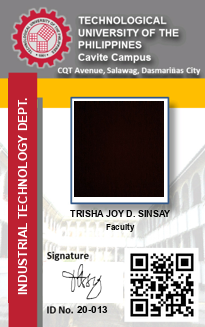
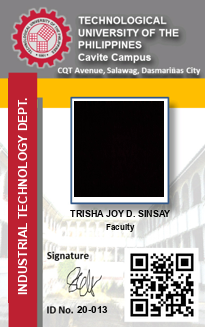
commit

Changed region(s): [[0.2049, 0.7951, 0.6146, 0.948]]

diff --git a/student_front.py b/student_front.py
@@ -166,8 +166,6 @@ class Win:
             self.E1.icursor(6)  # Set the cursor position after "TUPC- "
             self.E1.config(fg="black")
             self.E1.bind("<Key>", self.on_key_press)  # Bind the Key event
-            # Open the on-screen keyboard executable
-            subprocess.Popen(['osk.exe'])
 
     def on_key_press(self, event):
         # Allow only numbers and '-' character
@@ -200,10 +198,6 @@ class Win:
         else:
             # Text matches the expected format, keep it as is
             return
-
-        # Close the on-screen keyboard executable when focus out
-        subprocess.run(['taskkill', '/IM', 'osk.exe', '/F'])
-
 
     def start_drawing(self, event):
         self.is_drawing = True
@@ -313,8 +307,8 @@ class Win:
 
             self.Draw.text((25.92, 309.12), 'SIGNATURE', fill='black', font=font4)
 
-            # Create a new blank signature image
-            signature_image = Image.new('RGBA', (585, 150), (255,255,255,0))
+            # Create a new blank signature image with an alpha channel
+            signature_image = Image.new('RGBA', (585, 150), (255, 255, 255, 0))
 
             # Draw the captured signature onto the new image
             draw = ID.Draw(signature_image)
@@ -330,29 +324,21 @@ class Win:
             signature_filename = f'signatures/signature_{self.ID.get()}.png'
             signature_image.save(signature_filename, 'PNG')
 
-            # Load the saved signature image and remove the background
-            if os.path.exists(signature_filename):
-                signature_image = Image.open(signature_filename)
+            # Open the ID card background image
+            background_image = Image.open('sign_temp.png')
 
-                # Remove the background (make it transparent)
-                signature_image = signature_image.convert("RGBA")
-                data = signature_image.getdata()
+            # Resize the signature image to match the ID card background
+            signature_image = signature_image.resize((background_image.width, background_image.height))
 
-                new_data = []
-                for item in data:
-                    if item[:3] == (255, 255, 255):
-                        new_data.append((255, 255, 255, 0))  # Replace white background with transparency
-                    else:
-                        new_data.append(item)
+            # Blend the signature image with the ID card background using the alpha channel
+            blended_signature = Image.alpha_composite(background_image.convert("RGBA"), signature_image)
 
-                signature_image.putdata(new_data)
+            # Resize the blended signature to the desired size (72x41)
+            resized_blended_signature = blended_signature.resize((72, 41))
 
-                # Resize the signature image to the desired size
-                new_signature_size = (72, 41)  # Adjust the size as needed
-                signature_image = signature_image.resize(new_signature_size)
+            # Paste the resized blended signature onto the ID card
+            self.image_c.paste(resized_blended_signature, (11, 265), resized_blended_signature)
 
-                # Paste the signature image onto the ID card
-                self.image_c.paste(signature_image, (11, 265))  # Adjust the position as needed
 
             self.Qrcode = Q.QRCode(version=1, box_size=10, border=1)
             self.Qrcode.add_data(f'{self.ID.get()} {self.Lname.get()} {self.Fname.get()} {self.program.get()}')
@@ -383,7 +369,10 @@ class Win:
             self.message = 'Done'
             self.message_L.config(text=self.message, fg='green')
 
-            self.ID.set('')
+            self.E1.delete(0, "end")
+            self.E1.insert(0, "TUPC-XX-XXXX")
+            self.E1.config(fg="gray")
+            self.E1.unbind("<Key>")  # Unbind the Key event
             self.Fname.set('')
             self.Lname.set('')
             self.program.set('')

diff --git a/faculty.py b/faculty.py
@@ -307,8 +307,9 @@ class Win:
             # Paste the rotated department text onto the ID card image
             self.image_c.paste(rotated_department_text_image,
                                (8, 78))  # Adjust x and y positions as needed
-            # Create a new blank signature image
-            signature_image = Image.new('RGBA', (585, 150))
+
+            # Create a new blank signature image with an alpha channel
+            signature_image = Image.new('RGBA', (585, 150), (255, 255, 255, 0))
 
             # Draw the captured signature onto the new image
             draw = ID.Draw(signature_image)
@@ -324,29 +325,20 @@ class Win:
             signature_filename = f'signatures/signature_{self.ID.get()}.png'
             signature_image.save(signature_filename, 'PNG')
 
-            # Load the saved signature image and remove the background
-            if os.path.exists(signature_filename):
-                signature_image = Image.open(signature_filename)
+            # Open the ID card background image
+            background_image = Image.open('sign_emp.png')
 
-                # Remove the background (make it transparent)
-                signature_image = signature_image.convert("RGBA")
-                data = signature_image.getdata()
+            # Resize the signature image to match the ID card background
+            signature_image = signature_image.resize((background_image.width, background_image.height))
 
-                new_data = []
-                for item in data:
-                    if item[:3] == (255, 255, 255):
-                        new_data.append((255, 255, 255, 0))  # Replace white background with transparency
-                    else:
-                        new_data.append(item)
+            # Blend the signature image with the ID card background using the alpha channel
+            blended_signature = Image.alpha_composite(background_image.convert("RGBA"), signature_image)
 
-                signature_image.putdata(new_data)
+            # Resize the blended signature to the desired size (72x41)
+            resized_blended_signature = blended_signature.resize((80, 41))
 
-                # Resize the signature image to the desired size
-                new_signature_size = (80, 41)  # Adjust the size as needed
-                signature_image = signature_image.resize(new_signature_size)
-
-                # Paste the signature image onto the ID card
-                self.image_c.paste(signature_image, (43, 262))  # Adjust the position as needed
+            # Paste the resized blended signature onto the ID card
+            self.image_c.paste(resized_blended_signature, (43, 262), resized_blended_signature)
 
             self.Qrcode = Q.QRCode(version=1, box_size=10, border=1)
             self.Qrcode.add_data(f'{self.Fname.get()} | {self.ID.get()}')

diff --git a/id_back.py b/id_back.py
@@ -15,6 +15,7 @@ import win32ui
 import win32con
 import tkinter.messagebox as messagebox
 import os
+import subprocess
 import re as RE
 
 # WIN SETTINGS
@@ -268,52 +269,9 @@ class Win:
             self.ID_L.config(image='')
 
     def print_id(self):
-        # Ask the user if they want to print the ID card
-        confirm = messagebox.askyesno("Print ID", "Do you want to print the ID card?")
-
-        if confirm:
-            try:
-                # Set up the printer
-                printer_name = win32print.GetDefaultPrinter()
-                hprinter = win32print.OpenPrinter(printer_name)
-                printer_info = win32print.GetPrinter(hprinter, 2)
-
-                # Create a DC (device context) for the printer
-                printer_dc = win32ui.CreateDC()
-                printer_dc.CreatePrinterDC(printer_name)
-
-                # Set the orientation to portrait
-                printer_dc.StartDoc("ID Card")
-                printer_dc.StartPage()
-                printer_dc.SetMapMode(win32con.MM_TEXT)
-
-                # Load the ID card image
-                id_image = win32ui.CreateBitmap()
-                id_image.CreateCompatibleBitmap(printer_dc, 205, 327)  # Adjust the size as needed
-
-                # Select the loaded bitmap
-                printer_dc.SelectObject(id_image)
-
-                # Load the image you want to print (modify the path as needed)
-                image_path = r'C:\Users\Trisha\PycharmProjects\pythonProject\Library\ID_TUPC-20-0132.png'
-
-                image = I.open(image_path)
-
-                # Draw the image onto the printer DC
-                printer_dc.StretchBlt((0, 0, 205, 327), image, (0, 0, image.width, image.height), win32con.SRCCOPY)
-
-                # Clean up and finish printing
-                printer_dc.EndPage()
-                printer_dc.EndDoc()
-                printer_dc.DeleteDC()
-
-                messagebox.showinfo("Printed", "ID card printed successfully!")
-
-            except Exception as e:
-                messagebox.showerror("Error", f"An error occurred while printing: {str(e)}")
-
-        else:
-            messagebox.showinfo("Print Cancelled", "Printing cancelled by user.")
+        # Close the current Tkinter window
+        self.root.destroy()
+        subprocess.Popen(['python', 'app_kiosk.py'])
 
 if __name__ == '__main__':
     root = Tk()

diff --git a/alumni_back.py b/alumni_back.py
@@ -37,7 +37,7 @@ class Win:
         self.root.geometry(W[1])
 
         # Load the background image
-        bg_image = Image.open('req_bg.png')
+        bg_image = Image.open('maroon.png')
         bg_image = bg_image.resize((1366, 768))  # Adjust the size to match your window size
 
         self.bg_image = IT.PhotoImage(bg_image)
@@ -119,7 +119,7 @@ class Win:
         self.signature_drawn = False
 
         # F2
-        self.ID_Frame = Frame(self.F2, relief=SUNKEN, bd=1)
+        self.ID_Frame = Frame(self.F2, relief=SUNKEN)
         self.ID_Frame.place(x=150, y=220, width=327, height=205)
 
         self.ID_L = Label(self.ID_Frame, text='ID\nCard\nNot Found', font=F1, bg='#B29999')

diff --git a/ALUMNI.py b/ALUMNI.py
@@ -38,7 +38,7 @@ class Win:
         self.root.geometry(W[1])
 
         # Load the background image
-        bg_image = Image.open('req_bg.png')
+        bg_image = Image.open('maroon.png')
         bg_image = bg_image.resize((1366, 768))  # Adjust the size to match your window size
 
         self.bg_image = IT.PhotoImage(bg_image)
